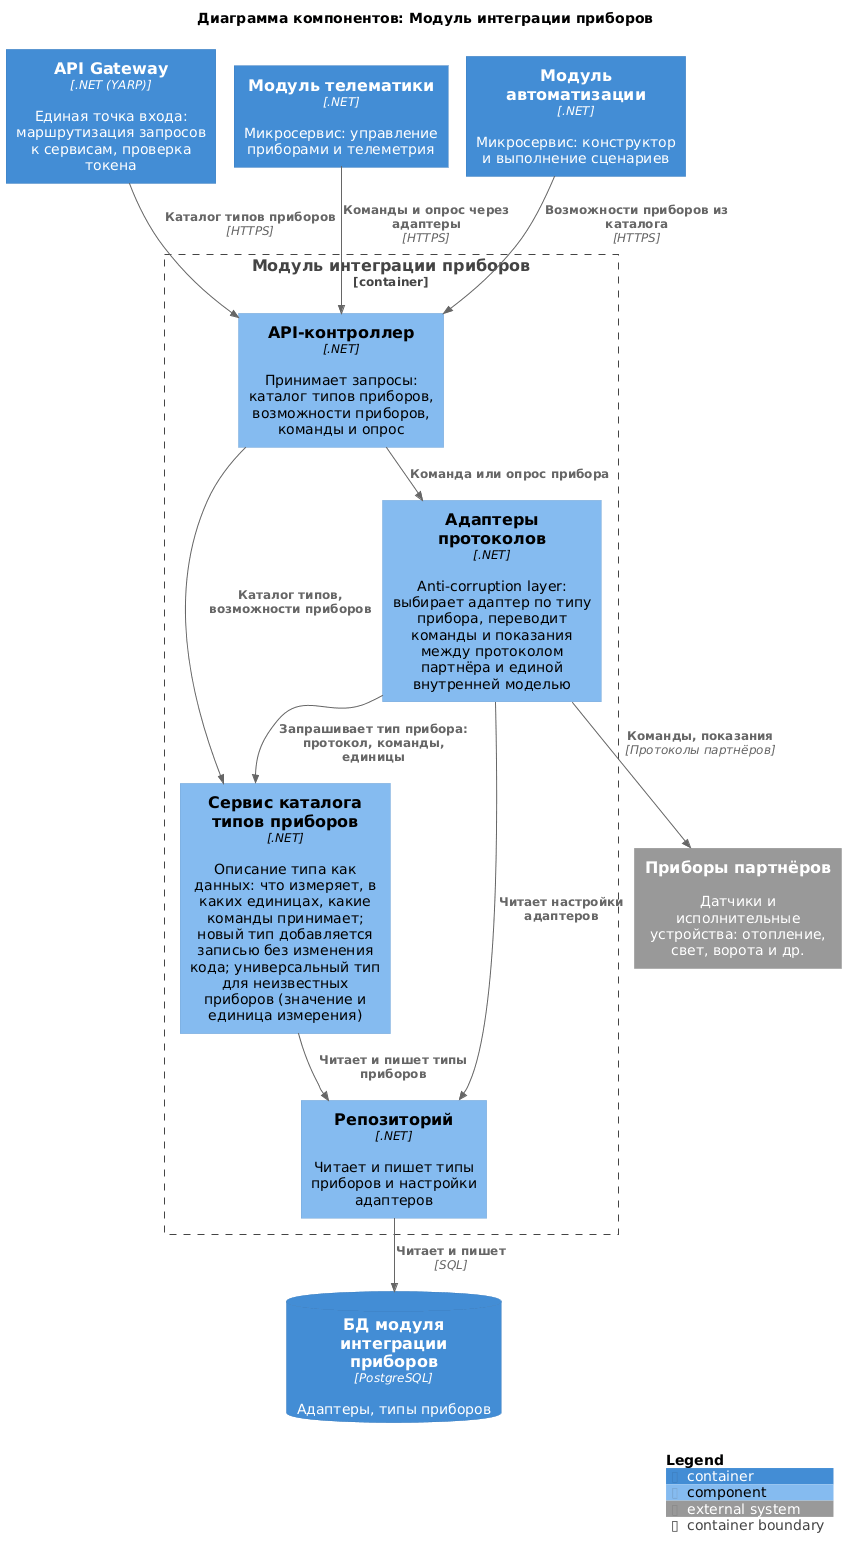
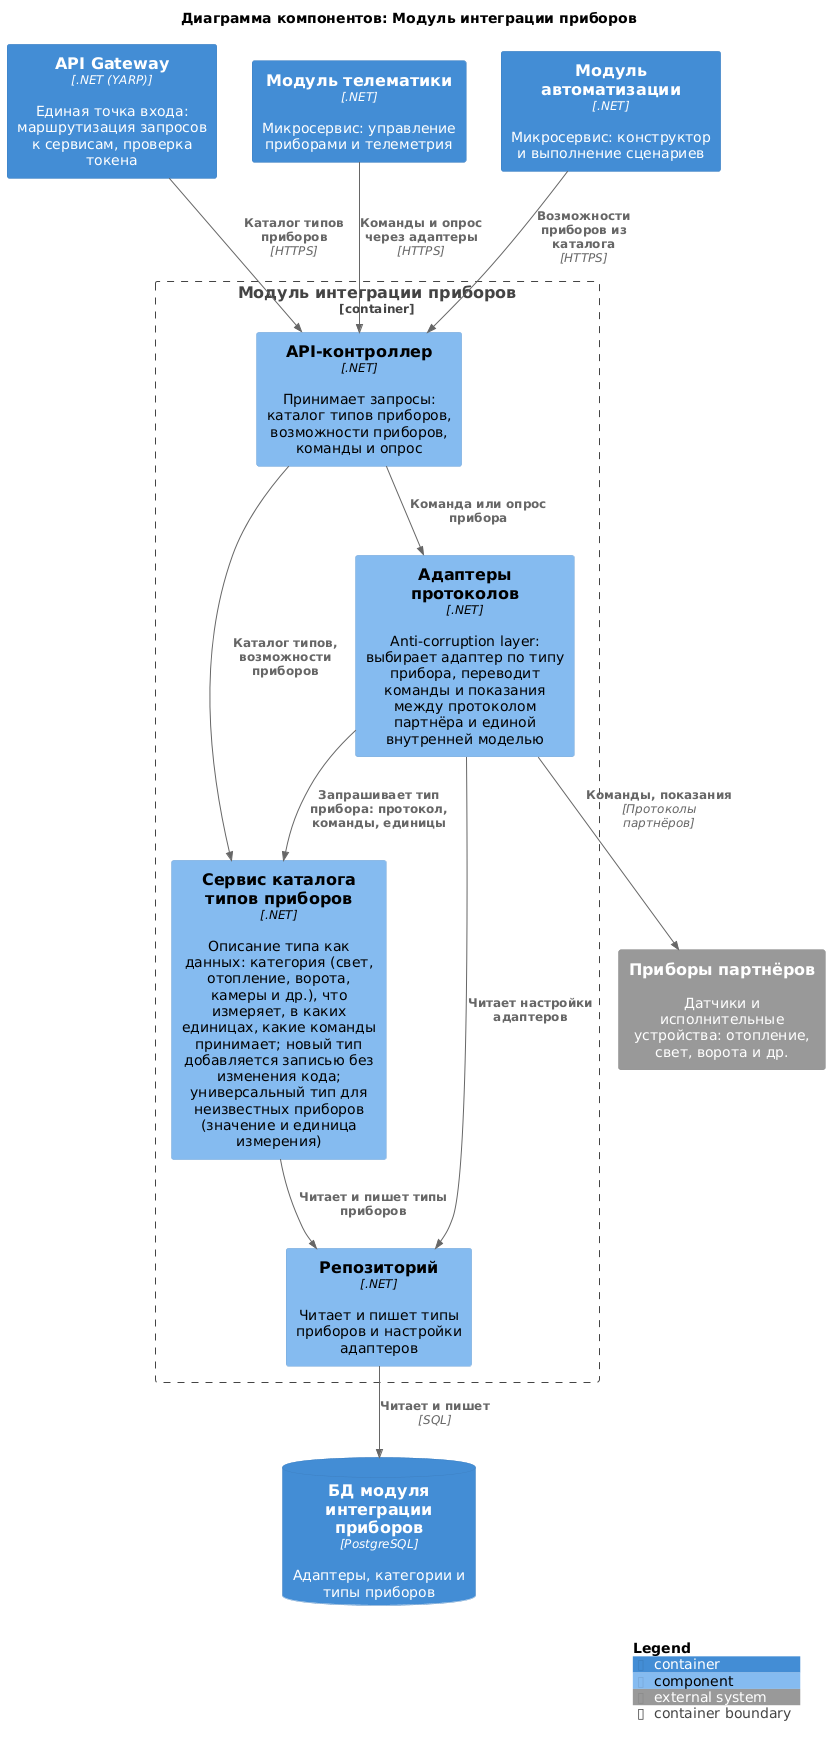
Согласование с ER: событие «дом создан» (Конфигурация дома → Пользователи), Администратор — служебная роль в доме, права в зоне по категории приборов, категории в Интеграции
Claude-Session: https://claude.ai/code/session_019eCoeVJp9iFbsFL3QnF195

Changed region(s): [[0.0, 0.0, 1.0, 0.9243], [0.753, 0.9243, 0.994, 0.9859], [0.1807, 0.154, 0.2108, 0.1849]]

diff --git a/README.md b/README.md
@@ -135,13 +135,21 @@
       в «Аутентификации», передавая логин и почту, и так же сообщает ей
       о смене логина или почты — Conformist; идентификатор пользователя
       общий с «Аутентификацией»)
-    - Контекст: Настройка ролевой модели (права и видимость в соответствии
-      с планом дома; хранит связь «пользователь — дом — роль» и ссылки
-      на дом и зоны плана, которые запрашивает у «Конструктора дома»;
-      пользователей берёт из «Регистрации»; при сдаче системы создаются
-      служебная роль «Администратор» и учётная запись для входа владельца
-      — владелец входит под ней, назначает себе права администратора и
-      назначает роли остальным пользователям через приложение)
+    - Контекст: Настройка ролевой модели (роли, права и связь
+      «пользователь — дом — роль»; хранит ссылки на дом и зоны плана,
+      которые запрашивает у «Конструктора дома»; пользователей берёт
+      из «Регистрации». Роли преднастроенные (Владелец, Администратор
+      и др.) и созданные владельцем для своего дома; у пользователя
+      в доме одна роль. Права роли на приборы задаются в зоне
+      по категории приборов, пустая зона или категория — «все»;
+      системные права (приглашать пользователей, менять план,
+      сопрягать приборы, редактировать сценарии) есть только
+      у Владельца и Администратора; видимость зон следует из прав. «Администратор» —
+      служебная роль: дом создаёт Администратор (например, монтажник),
+      о создании дома «Конструктор дома» сообщает событием, и создатель
+      получает в этом доме роль «Администратор»; затем Администратор
+      назначает зарегистрированному пользователю роль «Владелец»;
+      Владелец может снять Администратора со своего дома)
 
 - Аутентификация [generic]
     - Контекст: Поддержка различных режимов аутентификации (владеет
@@ -187,7 +195,8 @@
       но хранят историческую информацию, и их можно восстановить;
       об удалении и восстановлении зоны «Конструктор дома» публикует
       события, на которые подписаны «Пользователи», «Охрана»,
-      «Отопление», «Видеонаблюдение» и «Автоматизация»)
+      «Отопление», «Видеонаблюдение» и «Автоматизация»; о создании
+      дома — событие, на которое подписаны «Пользователи»)
 
 - Уведомления [generic]
     - Контекст: Рассылка уведомлений (получает события от «Управления
@@ -226,9 +235,9 @@
   «Управление приборами»; остальные контексты ссылаются на прибор
   по идентификатору, выданному при сопряжении.
 - хозяин дома, зон и периметра — «Конструктор дома».
-  Пользователь сначала регистрируется, затем создаёт дом и становится
-  его владельцем. «Пользователи» и «Управление охраной» ссылаются
-  на дом и зоны по идентификатору и хранят только своё.
+  Дом создаёт Администратор (служебная роль), затем назначает
+  зарегистрированному пользователю роль «Владелец». «Пользователи»
+  и «Управление охраной» ссылаются на дом и зоны по идентификатору и хранят только своё.
 - пользователь, «Автоматизация» и «Управление охраной»
   управляют приборами через контексты своего типа (отопление, освещение,
   ворота, камеры); те передают команды через «Передачу команд на приборы».
